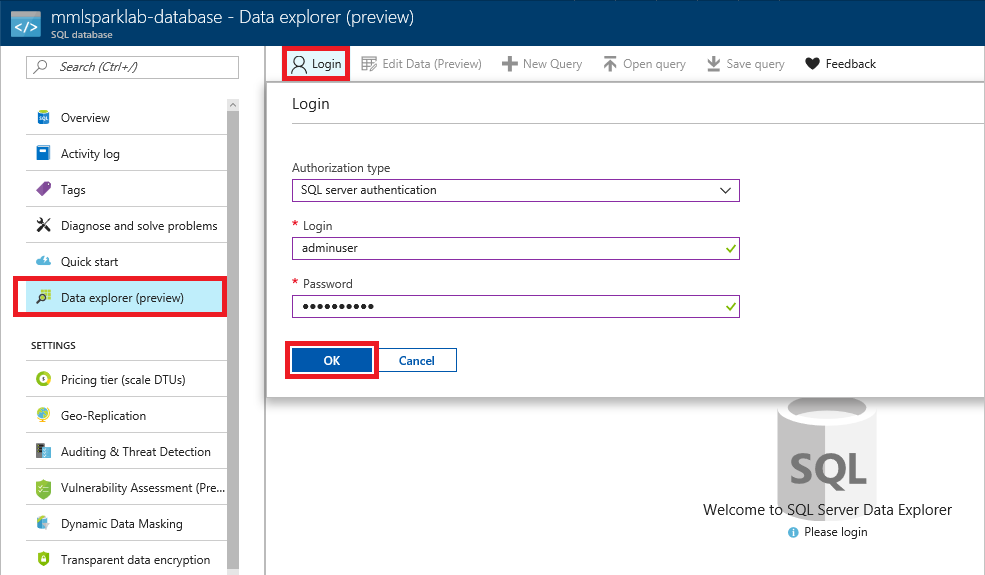
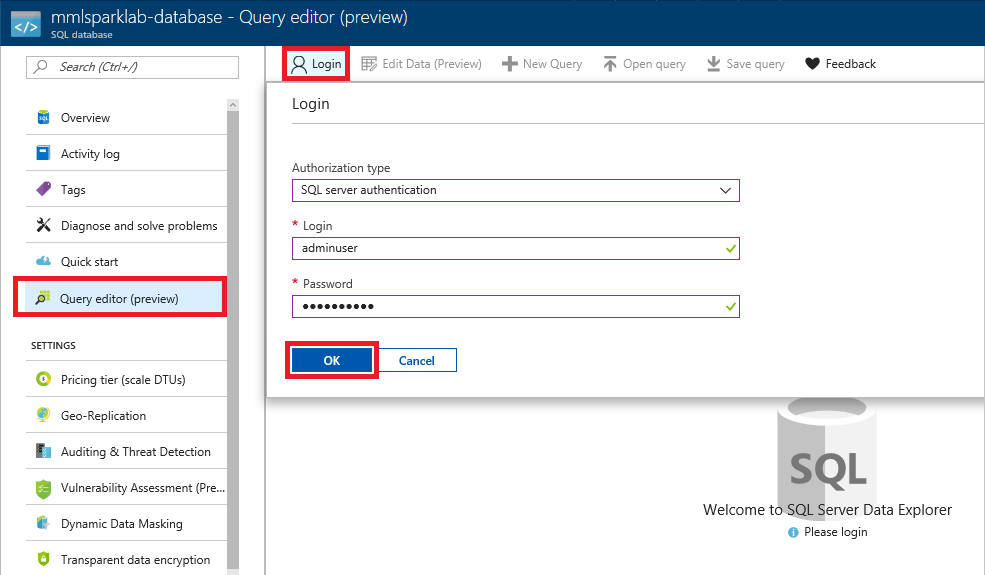
Updated deep learning labs for changes to Azure SQL UI in the portal

Changed region(s): [[0.0, 0.473, 0.2437, 0.5617], [0.2437, 0.0, 0.4264, 0.0591]]

diff --git a/Labs/Deep Learning/400 - Image Classification with MMLSpark/2 - Process/readme.md b/Labs/Deep Learning/400 - Image Classification with MMLSpark/2 - Process/readme.md
@@ -75,7 +75,7 @@ In this exercise, you will connect to the Azure SQL database you created in the 
 
 	Scroll to the right and observe that the table includes fields named "DHashHex8," "DHashHex7," and so on, all the way down to "DHashHex1." The **load.py** script that you ran in the previous lab used Bing Image Search to find images of paintings by famous artists. Then it downloaded each image and generated a series of [dHashes](https://pypi.python.org/pypi/dhash) with bit sizes from 8 to 1. A dHash is a [perceptual image hash](https://www.pyimagesearch.com/2017/11/27/image-hashing-opencv-python/); its purpose is to quantify the similarity between images. Higher bit sizes produce finer-grained results, meaning images have to be more alike to produce the same dHash. Image hashing is an important part of a strategy to clean the data because you don't want to train a machine-learning model that recognizes Van Gogh paintings with 50 images of the same Van Gogh. Perceptual hashes wouldn't be needed if training images were picked by hand. They are extraordinarily useful when picking images algorithmically.
 
-1. Return to the [Azure Portal](https://portal.azure.com) and open the database that you created in the previous lab. Then use Data Explorer to execute the following query, which uses common table expressions (CTEs) to tabulate the number of unique images for each artist:
+1. Return to the [Azure Portal](https://portal.azure.com) and open the database that you created in the previous lab. Then use the query editor to execute the following query, which uses common table expressions (CTEs) to tabulate the number of unique images for each artist:
 
 	``` SQL
 	WITH RowTagging

diff --git a/Labs/Deep Learning/400 - Stream Analytics and Machine Learning/3 - Predict/readme.md b/Labs/Deep Learning/400 - Stream Analytics and Machine Learning/3 - Predict/readme.md
@@ -165,7 +165,7 @@ In this exercise, you will use the Azure CLI to create an Azure SQL database tha
 
 	_Allowing Azure to access the database server_
 
-1. Open the database in the Azure Portal. Then click **Data explorer** in the menu on the left, click **Login** at the top of the blade, enter the user name and password you specified in Step 1, and click **OK** to log in to the database.
+1. Open the database in the Azure Portal. Then click **Query editor** in the menu on the left, click **Login** at the top of the blade, enter the user name and password you specified in Step 1, and click **OK** to log in to the database.
 
 	![Logging in to the database server](Images/database-login.png)
 
@@ -372,7 +372,7 @@ In this exercise, you will modify the Azure Function that you created in the pre
 
 1. **Let the camera array and the Stream Analytics job run for 3 to 5 minutes**. Then stop the Stream Analytics job and stop **run.js**.
 
-1. Return to the database in the Azure Portal and use Data Explorer to execute the following query:
+1. Return to the database in the Azure Portal and use the query editor to execute the following query:
 
 	```sql
 	SELECT * FROM dbo.PolarBears

diff --git a/Labs/Deep Learning/400 - Image Classification with MMLSpark/1 - Ingest/readme.md b/Labs/Deep Learning/400 - Image Classification with MMLSpark/1 - Ingest/readme.md
@@ -423,7 +423,7 @@ In this exercise, you will use the Azure Portal to view the information regardin
 
 	_Opening the database_
 
-1. Click **Data explorer** in the menu on the left. Then click **Login** at the top of the blade, select **SQL server authentication** as the authorization type, enter the user name and password you specified in Exercise 1, and click **OK** to log in to the database.
+1. Click **Query editor** in the menu on the left. Then click **Login** at the top of the blade, select **SQL server authentication** as the authorization type, enter the user name and password you specified in Exercise 1, and click **OK** to log in to the database.
 
 	![Logging in to the database](Images/login-to-database.png)
 

diff --git a/Labs/Deep Learning/400 - Stream Analytics and Machine Learning/4 - Visualize/readme.md b/Labs/Deep Learning/400 - Stream Analytics and Machine Learning/4 - Visualize/readme.md
@@ -220,7 +220,7 @@ _The formatted report_
 
 Now that the report is prepared in Power BI, your final task is to run the end-to-end solution that you built in this series of hands-on labs and check for polar bears!
 
-1. Open the database that you created in [Part 3](../3%20-%20Predict) in the [Azure Portal](https://portal.azure.com) and use the Data Explorer to execute the following query and delete all rows from the "PolarBears" table:
+1. Open the database that you created in [Part 3](../3%20-%20Predict) in the [Azure Portal](https://portal.azure.com) and use the query editor to execute the following query and delete all rows from the "PolarBears" table:
 
 	```sql
 	DELETE FROM dbo.PolarBears
